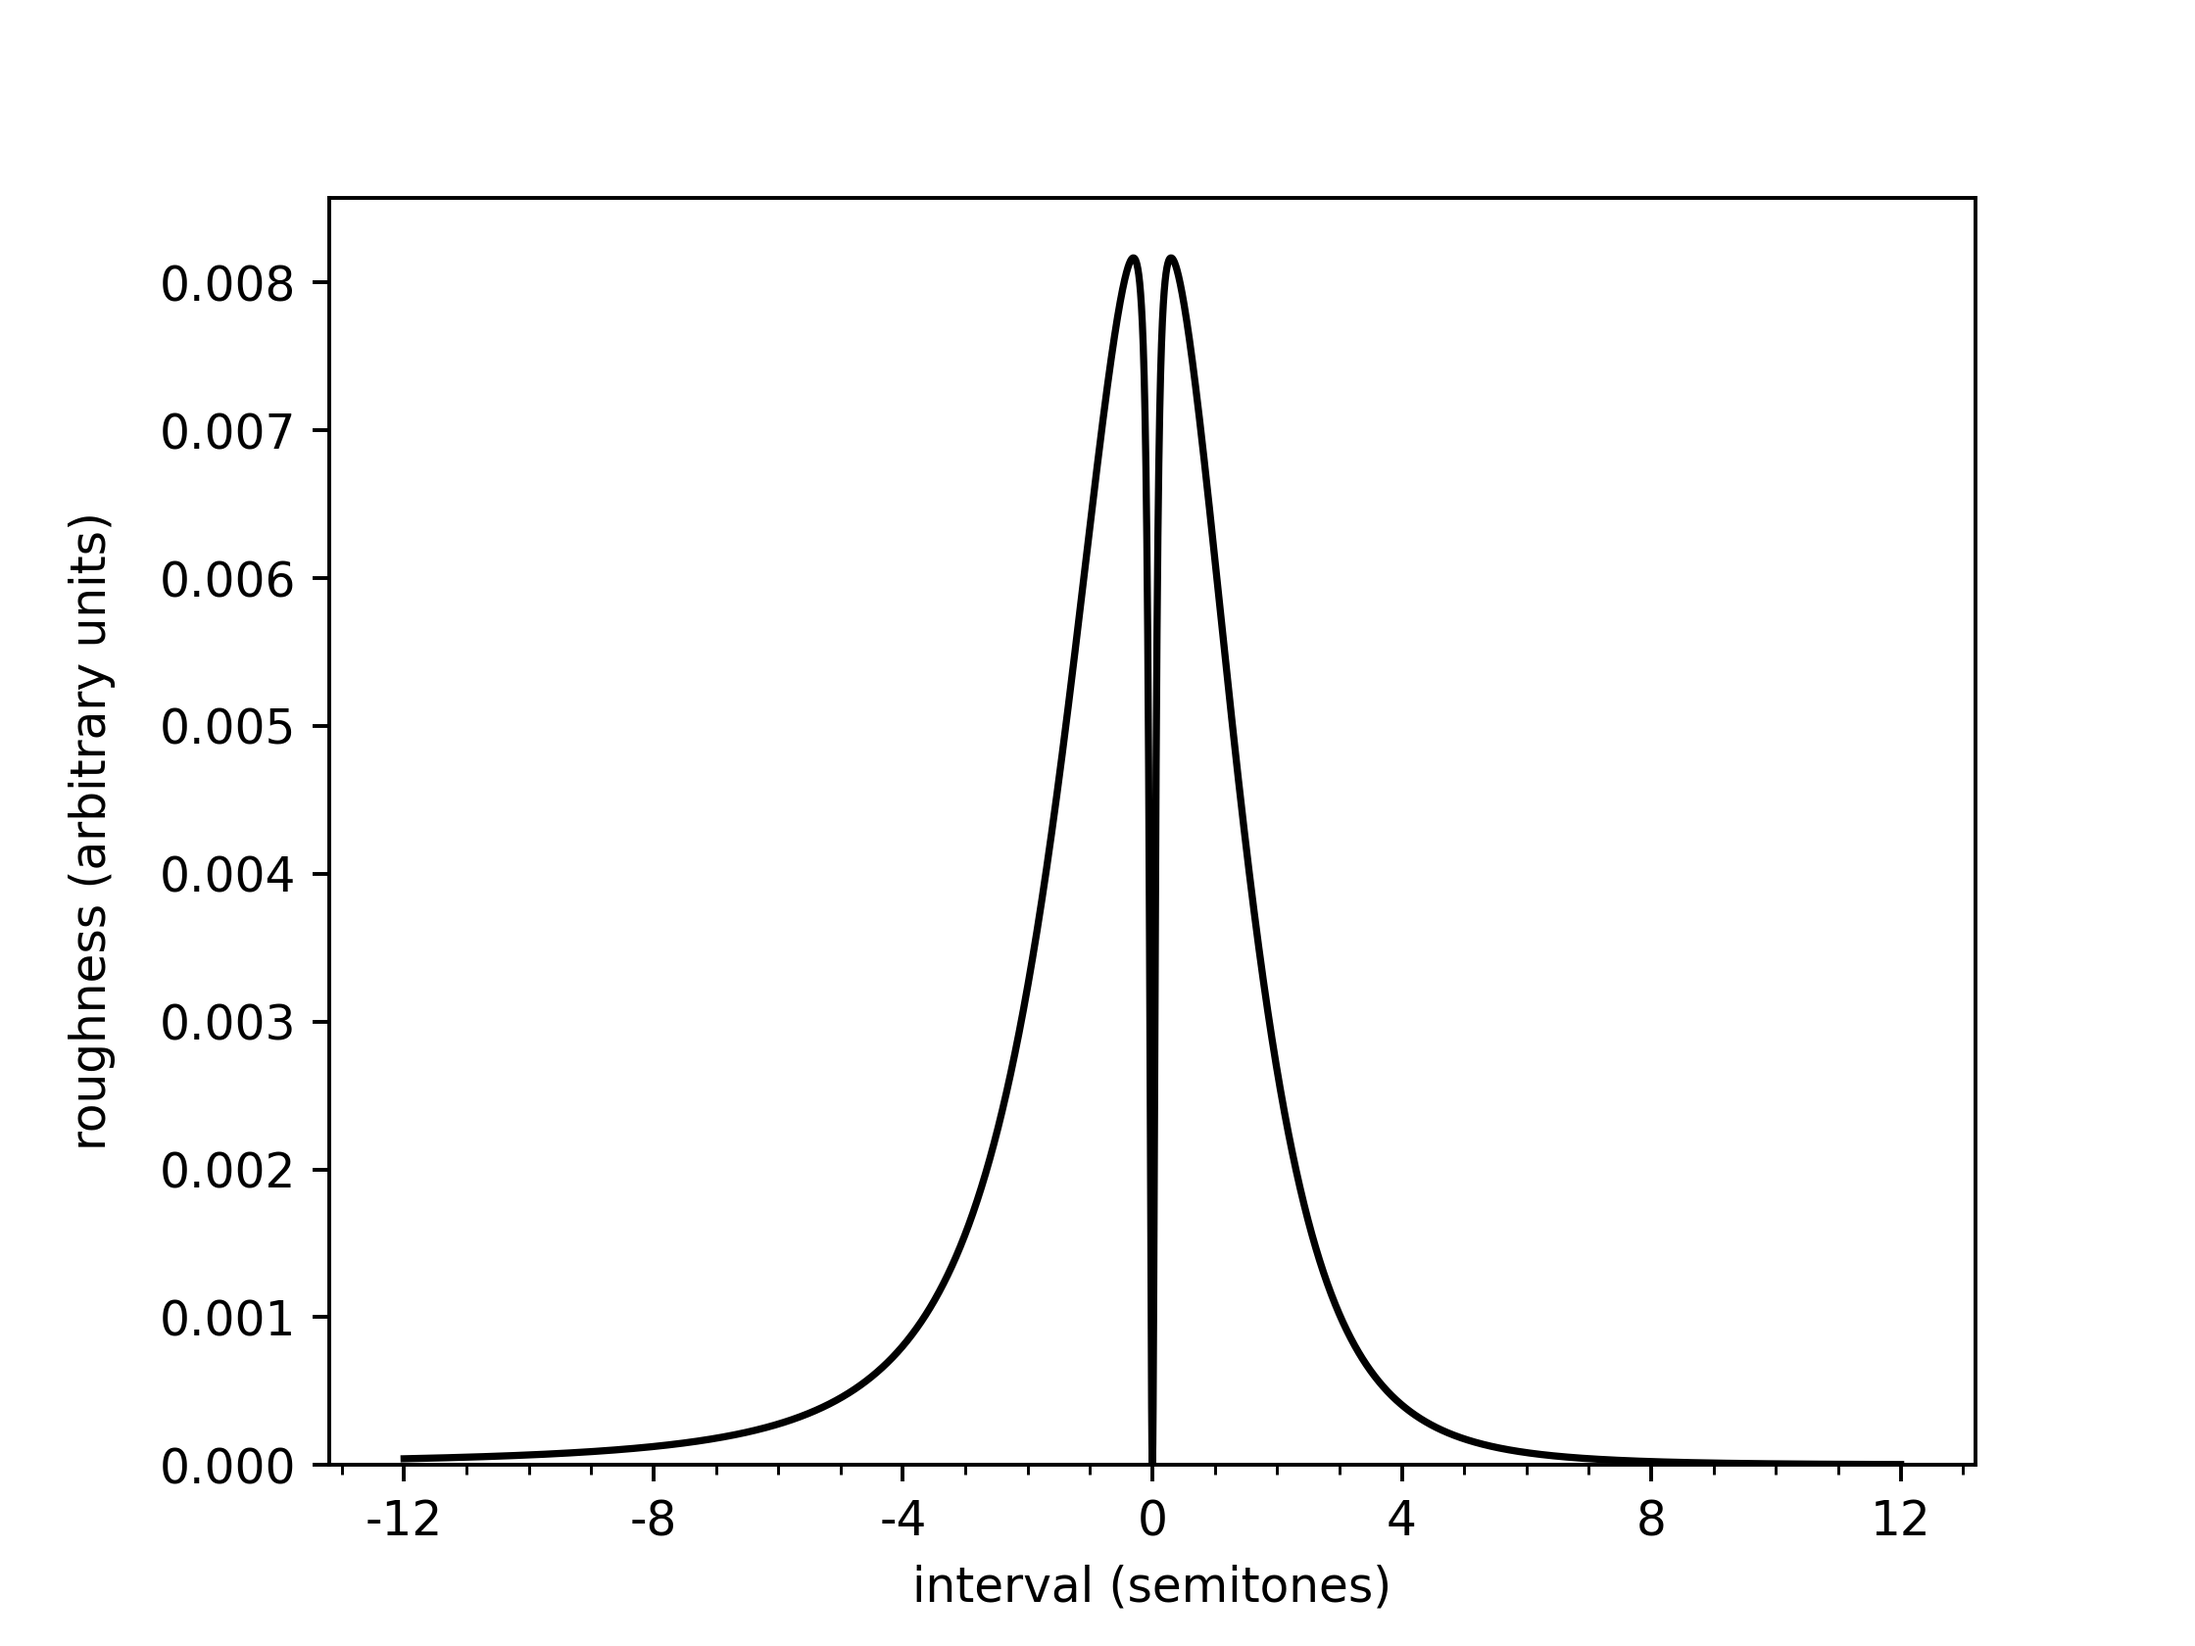
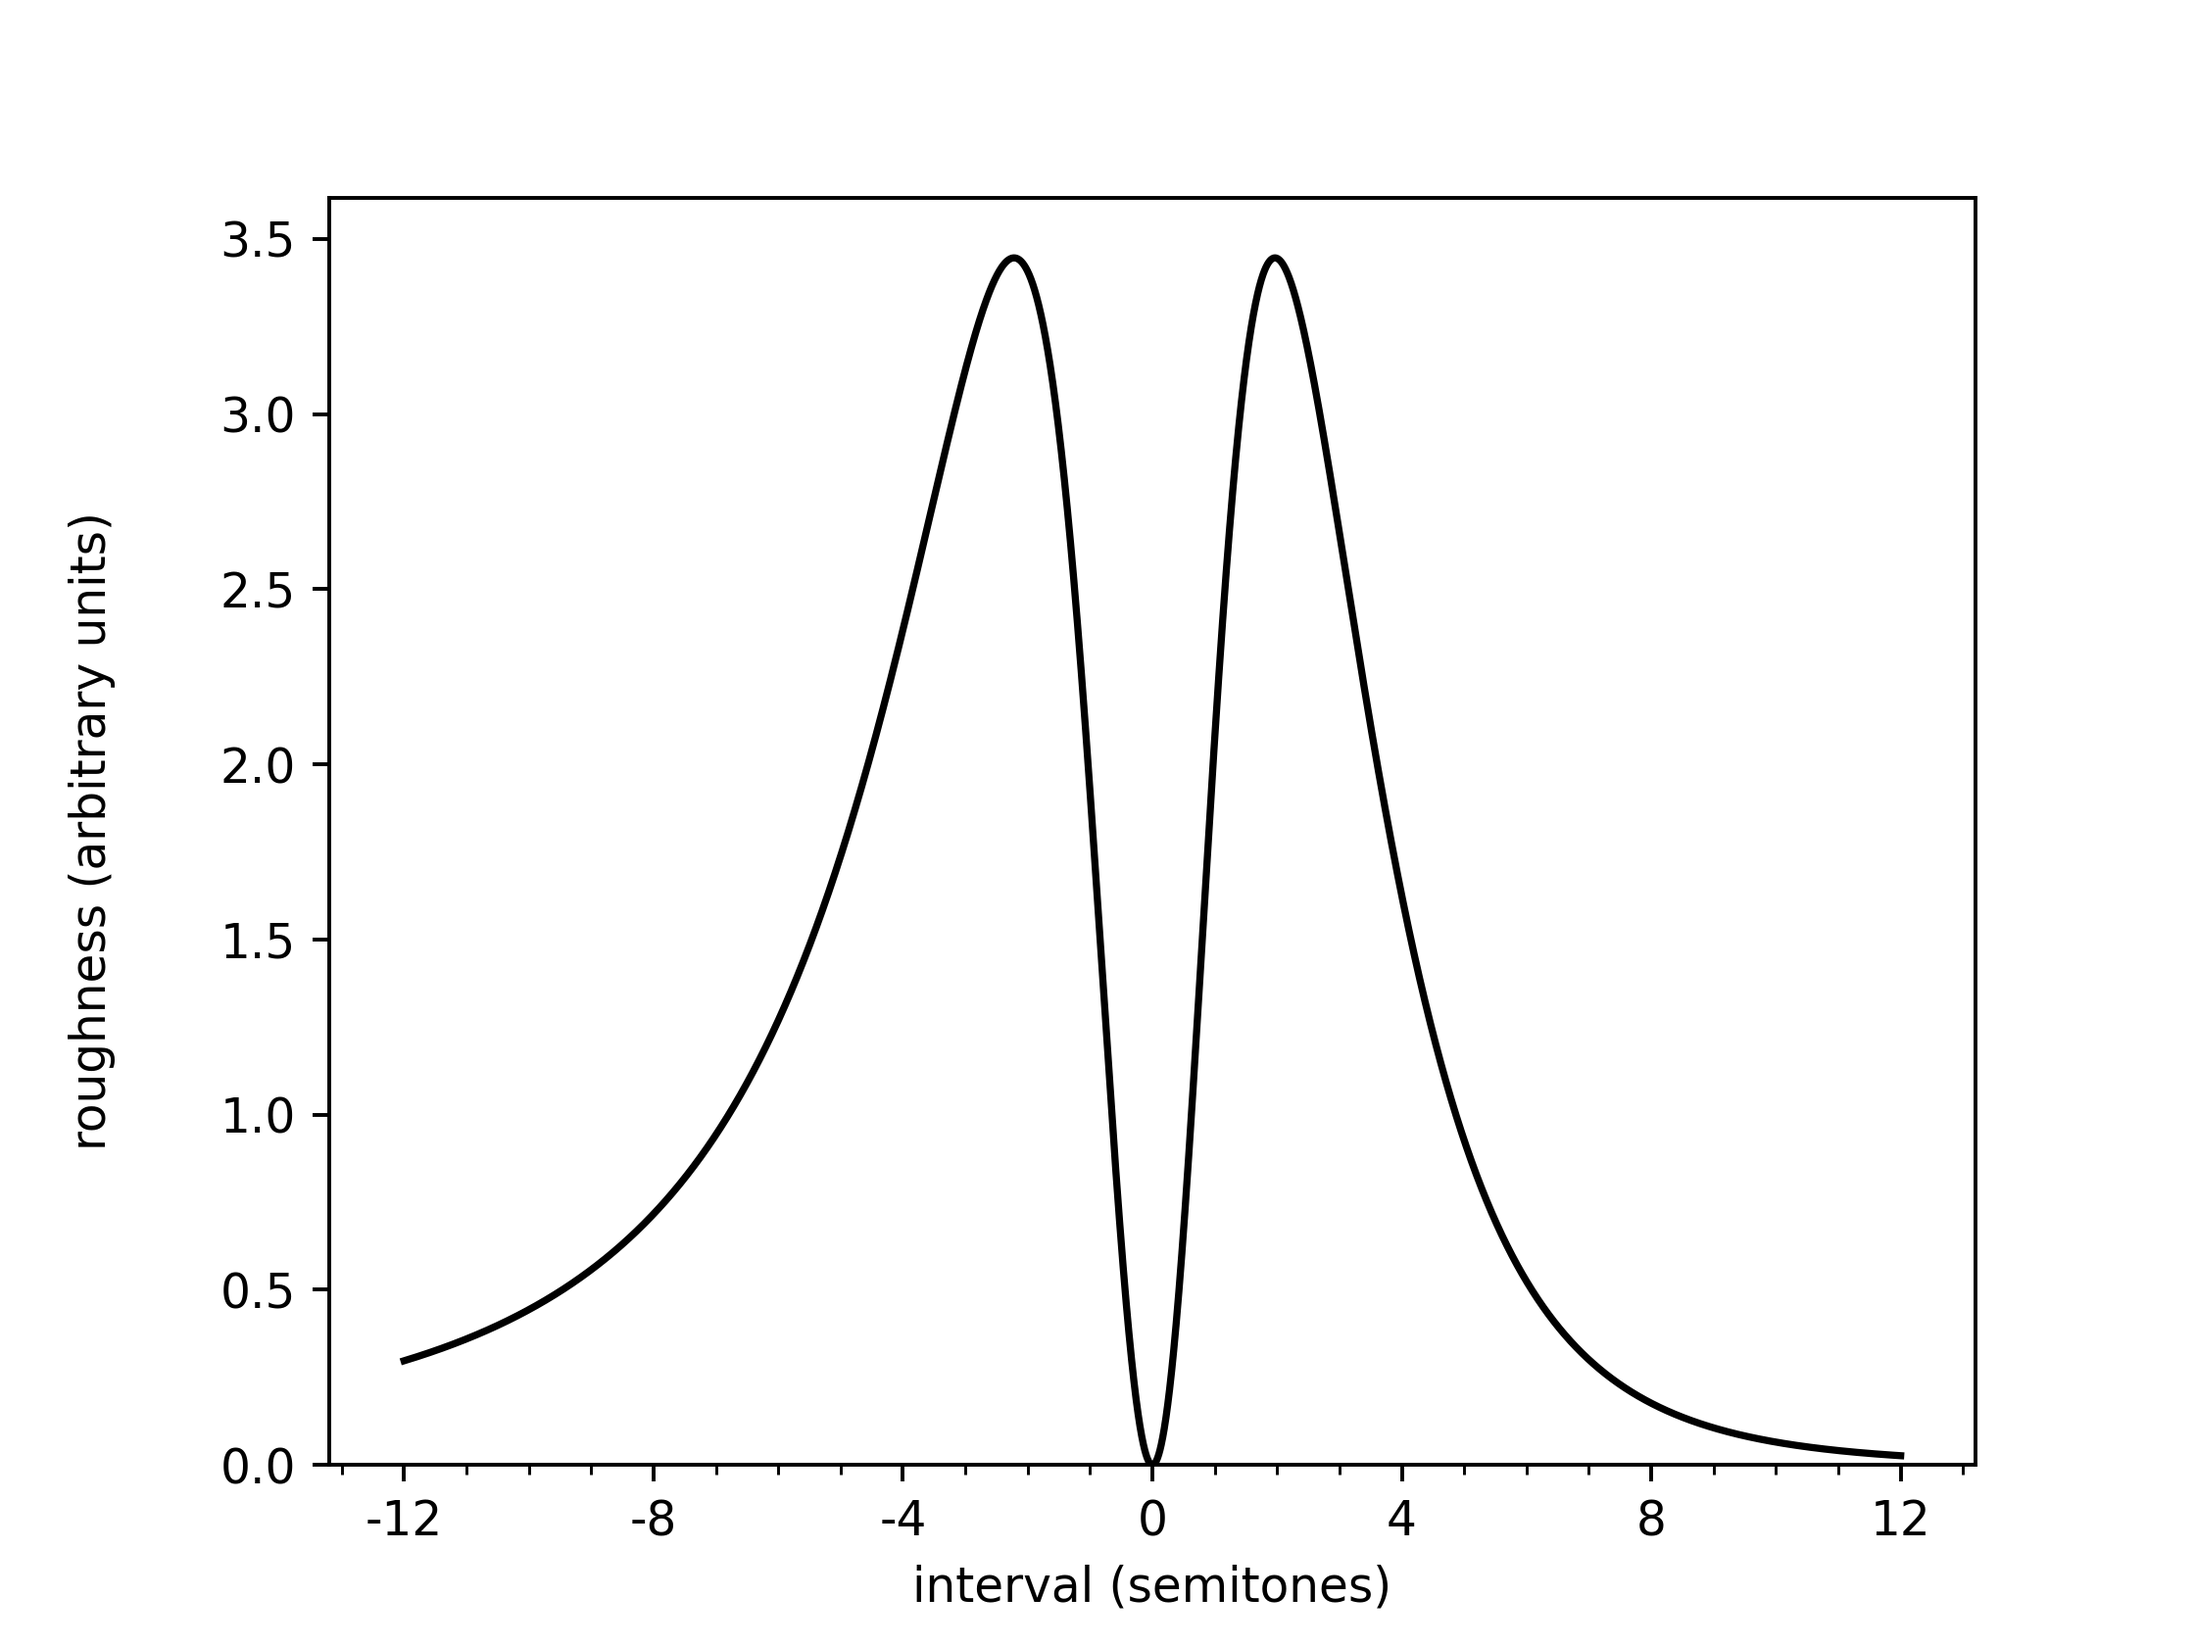
figures 1 and 2 added

diff --git a/chordkit/roughness_models.py b/chordkit/roughness_models.py
@@ -17,44 +17,49 @@ from matplotlib import pyplot as plt
 # Different pairwise roughness evaluation functions. Each has the same signature
 # so that they can be called by the same line of code.
 
-def helmholtz_roughness_pair(x_hz, ref_hz, v_x, v_ref, *, p=1, options={}):
+def helmholtz_roughness_pair(x_hz, *, x_p=1, ref_p=1, options={}):
+    # Note that x_p and ref_p are now 1-indexed in the function call.
 
     # The following constants have not been given values by Helmholtz.
     # They are chosen here somewhat arbitrarily to make the graph resemble his.
     bPrime1 = 1
     bPrime2 = 1
-    beta = 0.01
-    # print(options)
-    true_ref = options['ref'][0]
+    beta = 0.3 # Trial and error; Helmholtz doesn't specify
 
-    if ref_hz != true_ref:
-        temp = x_hz
-        x_hz = ref_hz
-        ref_hz = temp
+    # Take partial ref_p from the reference pitch
+    ref_hz = options['ref'][ref_p - 1]
 
     delta = ((float(x_hz) / ref_hz) - 1) / 2
-    theta = 15.0 / true_ref
+    theta = 15.0 / ref_hz
 
     s = 4 * bPrime1 * bPrime2 * (beta ** 2) / (beta ** 2 + (2 * np.pi * delta) ** 2)
 
-    r = s * ((2 * theta * delta * p) ** 2) / ((theta ** 2 + (p * delta) ** 2) ** 2)
+    r = s * ((2 * theta * delta * x_p) ** 2) / ((theta ** 2 + (x_p * delta) ** 2) ** 2)
 
     return r
 
 # Returns the value of the Sethares "sensory dissonance" (roughness)
 # function at frequency x_hz with respect to ref_hz.
 # Based on Sethares 1997, as implemented in Giordano 2015.
-def sethares_roughness_pair(x_hz, ref_hz, v_x, v_ref, *, amp_type='MIN', cutoff=False, options = {
+def sethares_roughness_pair(x_hz, ref_hz, v_x, v_ref, *, amp_type='PRODUCT', cutoff=False, options = {
     'original': False
 }):
     s = sc['s_star'] / (sc['s1'] * min([x_hz, ref_hz]) + sc['s2'])
+
+    if options['original']:
+        amp_type = 'PRODUCT'
+
     v12 = pair_volume(v_x, v_ref, amp_type)
+
+    # Sethares' MATLAB implementation (but not the published paper)
+    scaling = 5
 
     # The following scaling factor is introduced to ensure that the maximum
     # value obtained by the pairwise roughness function is approximately 1.
     # The numerator comes from Sethares' MATLAB implementation; the
     # denominator is my additional modification.
-    scaling = 5 / 0.8986
+    if options['original'] == False:
+        scaling = 5 / 0.8986
 
     distance = pair_distance(x_hz, ref_hz)
 
@@ -68,9 +73,7 @@ def sethares_roughness_pair(x_hz, ref_hz, v_x, v_ref, *, amp_type='MIN', cutoff=
         if distance < ac['slow_beat_limit'] or distance >= cbw_limit:
             v12 = 0
 
-    # Sethares' MATLAB implementation (but not the published paper)
-    if options['original']:
-        scaling = 5
+
 
     try:
         return v12 * scaling * (math.exp(-sc['a'] * s * distance) - math.exp(-sc['b'] * s * distance))
@@ -134,19 +137,44 @@ def roughness_complex(
         pair_assess = parncutt_roughness_pair
     elif function_type.upper() == 'HELMHOLTZ':
         pair_assess = helmholtz_roughness_pair
+    else:
+        raise ValueError(f'Invalid assessment function type: {function_type.upper()}')
 
     # Assess all pairs for roughness
-    for i in range(n - 1):
-        for j in range(i + 1, n):
-            rough_vals[i][j] = pair_assess(
-                spectrum.partials['hz'][i],
-                spectrum.partials['hz'][j],
-                spectrum.partials['amp'][i],
-                spectrum.partials['amp'][j],
-                options=options
-            )
-            if rough_vals[i][j] > rough_limit:
-                rough_partials.append((i, j))
+
+    # Helmholtz's function works differently from the others.
+    # In this case, `spectrum` is NOT a composite spectrum of the whole chord:
+    # It contains exactly one pitch, which varies by transposition.
+    # The second, reference pitch is stored under options['ref'] and is fixed.
+    # This method will not work for cardinality > 2.
+    if function_type.upper() == 'HELMHOLTZ':
+        m = len(spectrum.partials['hz'])
+        n = len(options['ref'])
+        ## NEED TO FIX THIS ASSESSMENT FUNCTION
+        for i in range(m):
+            for j in range(n):
+                rough_vals[i][j] = helmholtz_roughness_pair(
+                    spectrum.partials['hz'][i],
+                    x_p=i + 1, # p is 1-indexed
+                    ref_p=j + 1,
+                    options=options
+                )
+                if rough_vals[i][j] > rough_limit:
+                    rough_partials.append((i, j))
+
+    # Pairwise evaluations, as used by Hutchinson/Knopoff, Sethares, Parncutt.
+    else:
+        for i in range(n - 1):
+            for j in range(i + 1, n):
+                rough_vals[i][j] = pair_assess(
+                    spectrum.partials['hz'][i],
+                    spectrum.partials['hz'][j],
+                    spectrum.partials['amp'][i],
+                    spectrum.partials['amp'][j],
+                    options=options
+                )
+                if rough_vals[i][j] > rough_limit:
+                    rough_partials.append((i, j))
 
     return {
         'roughness': np.sum(rough_vals),

diff --git a/chordkit/ch2_figures.py b/chordkit/ch2_figures.py
@@ -17,13 +17,12 @@ def ch2_fig1(action):
     ref_chord = ChordSpectrum([0], 'ST_DIFF', timbre=tim, fund_hz=fund_hz)
     test_chord = ChordSpectrum([0], 'ST_DIFF', timbre=tim, fund_hz=fund_hz)
     transpose_domain = TransposeDomain(-12, 12, 5000, 'ST_DIFF')
-    # print(transpose_domain.domain)
     roughness = roughness_curve(ref_chord, test_chord, transpose_domain=transpose_domain, function_type='HELMHOLTZ', plot=False, options={
         'ref': ref_chord.partials['hz']
     })
 
+    # Plot
     _, ax = plt.subplots()
-
     plt.plot(transpose_domain.domain, roughness, 'k')
     plt.xlabel('interval (semitones)')
     plt.ylabel('roughness (arbitrary units)')
@@ -42,10 +41,92 @@ def ch2_fig1(action):
         plt.show()
 
 def ch2_fig2(action):
+    # 10 partials (to match Helmholtz's figure 60A, constant amplitude)
 
+    roughnesses = []
 
-def __main__(action):
-    ch2_fig1(action.lower())
+    # for i in range(2, 11): # Use this line for a family of curves like Helmholtz's
+    #                          figure 60A
+    for i in range(10, 11): # For one curve (Helmholtz's figure 61)
+        tim = Timbre(range(1, i), 1)
+        fund_hz = 264 # Helmholtz's starting pitch: 6/5 * 220, or a just-intoned C3
+
+        ref_chord = ChordSpectrum([0], 'ST_DIFF', timbre=tim, fund_hz=fund_hz)
+        test_chord = ChordSpectrum([0], 'ST_DIFF', timbre=tim, fund_hz=fund_hz)
+        transpose_domain = TransposeDomain(-0.5, 12.5, 1000, 'ST_DIFF')
+        roughnesses.append(roughness_curve(ref_chord, test_chord, transpose_domain=transpose_domain, function_type='HELMHOLTZ', plot=False, options={
+            'ref': ref_chord.partials['hz']
+        }))
+
+    # Plot
+    fig, ax = plt.subplots()
+    fig.set_figwidth(10)
+    for roughness in roughnesses:
+        plt.plot(transpose_domain.domain, roughness, 'k')
+    plt.xlabel('interval (semitones)')
+    plt.ylabel('roughness (arbitrary units)')
+    plt.ylim(ymin=0.0)
+    ax.xaxis.set_major_locator(MultipleLocator(1))
+    ax.xaxis.set_major_formatter('{x:.0f}')
+    # ax.xaxis.set_minor_locator(MultipleLocator(1))
+    # plt.subplots_adjust(left=0.15)
+    ax.yaxis.set_label_coords(-0.06, 0.5)
+
+    if action.lower() == 'save':
+        plt.savefig('ch2_fig2.png',dpi=350)
+        print('ch2_fig2.png saved')
+
+    else:
+        plt.show()
+
+def ch2_fig3a(action):
+
+    # Plot
+    _, ax = plt.subplots()
+    plt.plot(transpose_domain.domain, roughness, 'k')
+    plt.xlabel('interval (semitones)')
+    plt.ylabel('roughness (arbitrary units)')
+    plt.ylim(ymin=0.0)
+    ax.xaxis.set_major_locator(MultipleLocator(4))
+    ax.xaxis.set_major_formatter('{x:.0f}')
+    ax.xaxis.set_minor_locator(MultipleLocator(1))
+    plt.subplots_adjust(left=0.15)
+    ax.yaxis.set_label_coords(-0.13, 0.5)
+
+    if action.lower() == 'save':
+        plt.savefig('ch2_fig3a.png', dpi=350)
+        print('ch2_fig3a.png saved')
+
+    else:
+        plt.show()
+
+def __main__(argv):
+    action = ''
+    if len(argv) > 1:
+        action = argv[1].lower()
+
+    ch2_fig1(action)
+    ch2_fig2(action)
+    # ch2_fig3a(action)
+    # ch2_fig3b(action)
+    # ch2_fig4(action)
+    # ch2_fig5(action)
+    # ch2_fig6(action)
+    # ch2_fig7a(action)
+    # ch2_fig7b(action)
+    # ch2_fig8(action)
+    # ch2_fig9(action)
+    # ch2_fig10(action)
+    # ch2_fig11a(action)
+    # ch2_fig11b(action)
+    # ch2_fig12(action)
+    # ch2_fig13(action)
+    # ch2_fig14(action)
+    # ch2_fig15(action)
+    # ch2_fig16(action)
+    # ch2_fig17(action)
+    # ch2_fig19(action)
+
 
 if __name__ == '__main__':
-    __main__(sys.argv[1])
+    __main__(sys.argv)

diff --git a/chordkit/chord_utils.py b/chordkit/chord_utils.py
@@ -38,11 +38,16 @@ class MergedSpectrum:
             else:
                 self.fund_hz = 0
 
-        # Constructor called with two ChordSpectrum or MergedSpectrum objects: merges them
-        elif isinstance(args[0].partials, pd.DataFrame) and isinstance(args[1].partials, pd.DataFrame):
+        # Constructor called with ChordSpectrum or MergedSpectrum objects: merges them
+        elif isinstance(args[0].partials, pd.DataFrame):
             self.fund_hz = 0
-            self.partials = args[0].partials.append(args[1].partials, ignore_index = True)
-            self.partials = sort_partials(self.partials)
+            # Two spectra provided: merge them
+            if len(args) > 1 and isinstance(args[1].partials, pd.DataFrame):
+                self.partials = args[0].partials.append(args[1].partials, ignore_index = True)
+                self.partials = sort_partials(self.partials)
+            # Only one spectrum provided: copy it over
+            else:
+                self.partials = args[0].partials.copy(deep=True)
 
 class ChordSpectrum:
     def __init__(

diff --git a/chordkit/roughness_plot.py b/chordkit/roughness_plot.py
@@ -43,10 +43,13 @@ def roughness_curve(
         # new_test_timbre['fund_multiple'] = cu.slide_timbre(position, test_timbre, chord_struct_type=chord_struct_type)
         # test_chord = cu.make_chord(test_chord_struct, chord_struct_type, timbre=new_test_timbre, fund_hz=fund_hz)
         test_chord.transpose(position, transpose_domain.transpose_type)
-        # print(test_chord.partials)
         # union = ref_chord.append(test_chord, ignore_index=True)
-        union = MergedSpectrum(ref_chord, test_chord)
-        # print(union.partials)
+
+        if function_type.upper() == 'HELMHOLTZ':
+            union = MergedSpectrum(test_chord)
+        else:
+            union = MergedSpectrum(ref_chord, test_chord)
+
         curr_roughness_val = (roughness_complex(union, function_type, options=options))['roughness']
         roughness_vals[idx] = curr_roughness_val
 
